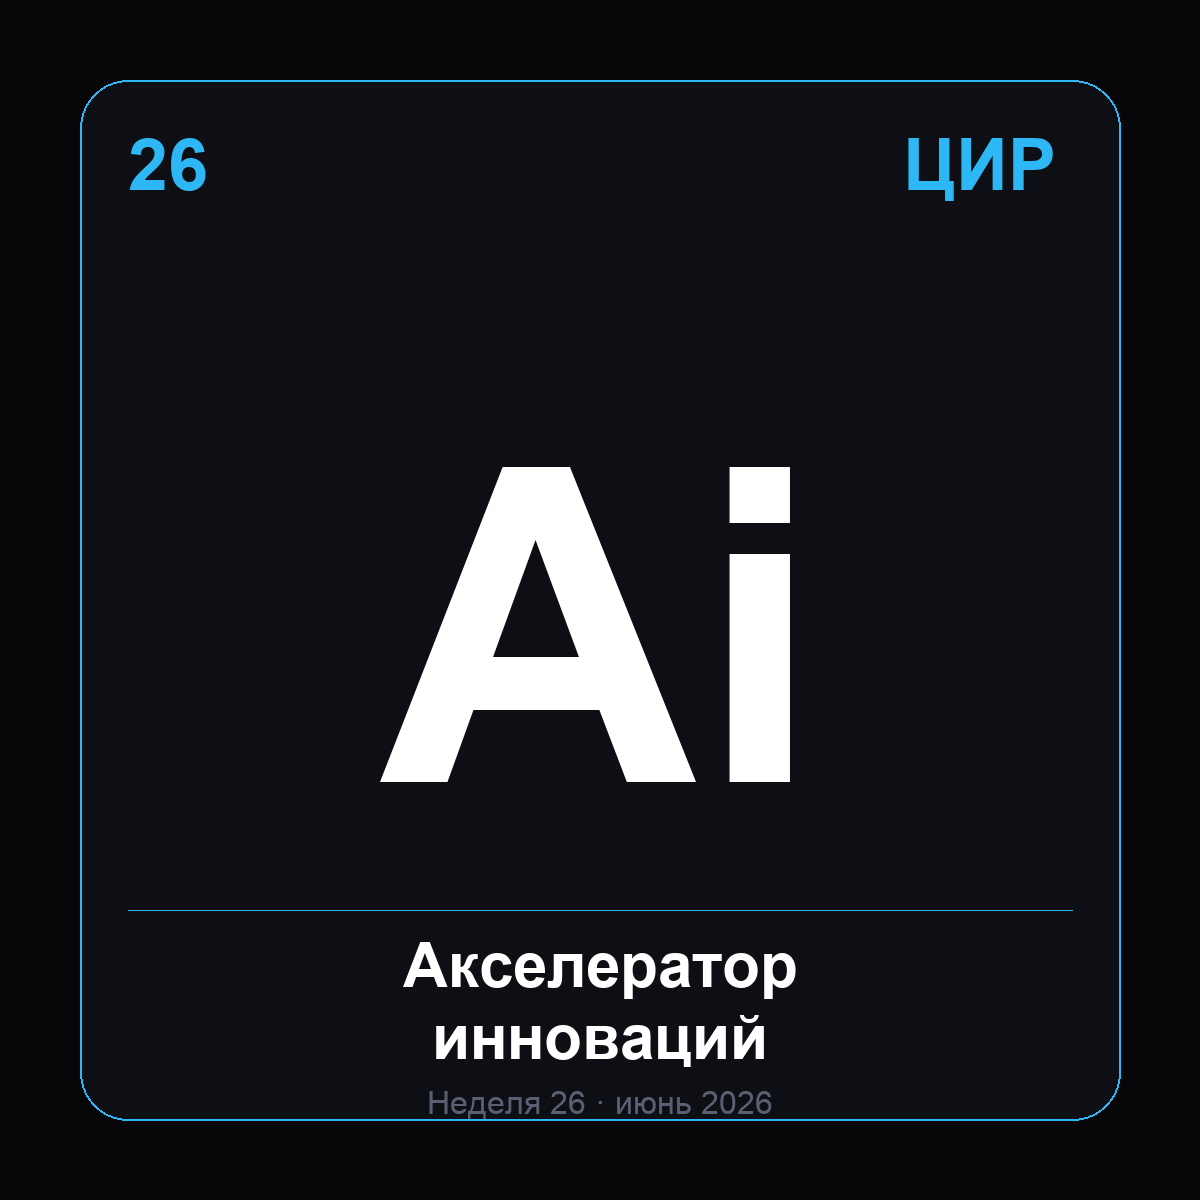
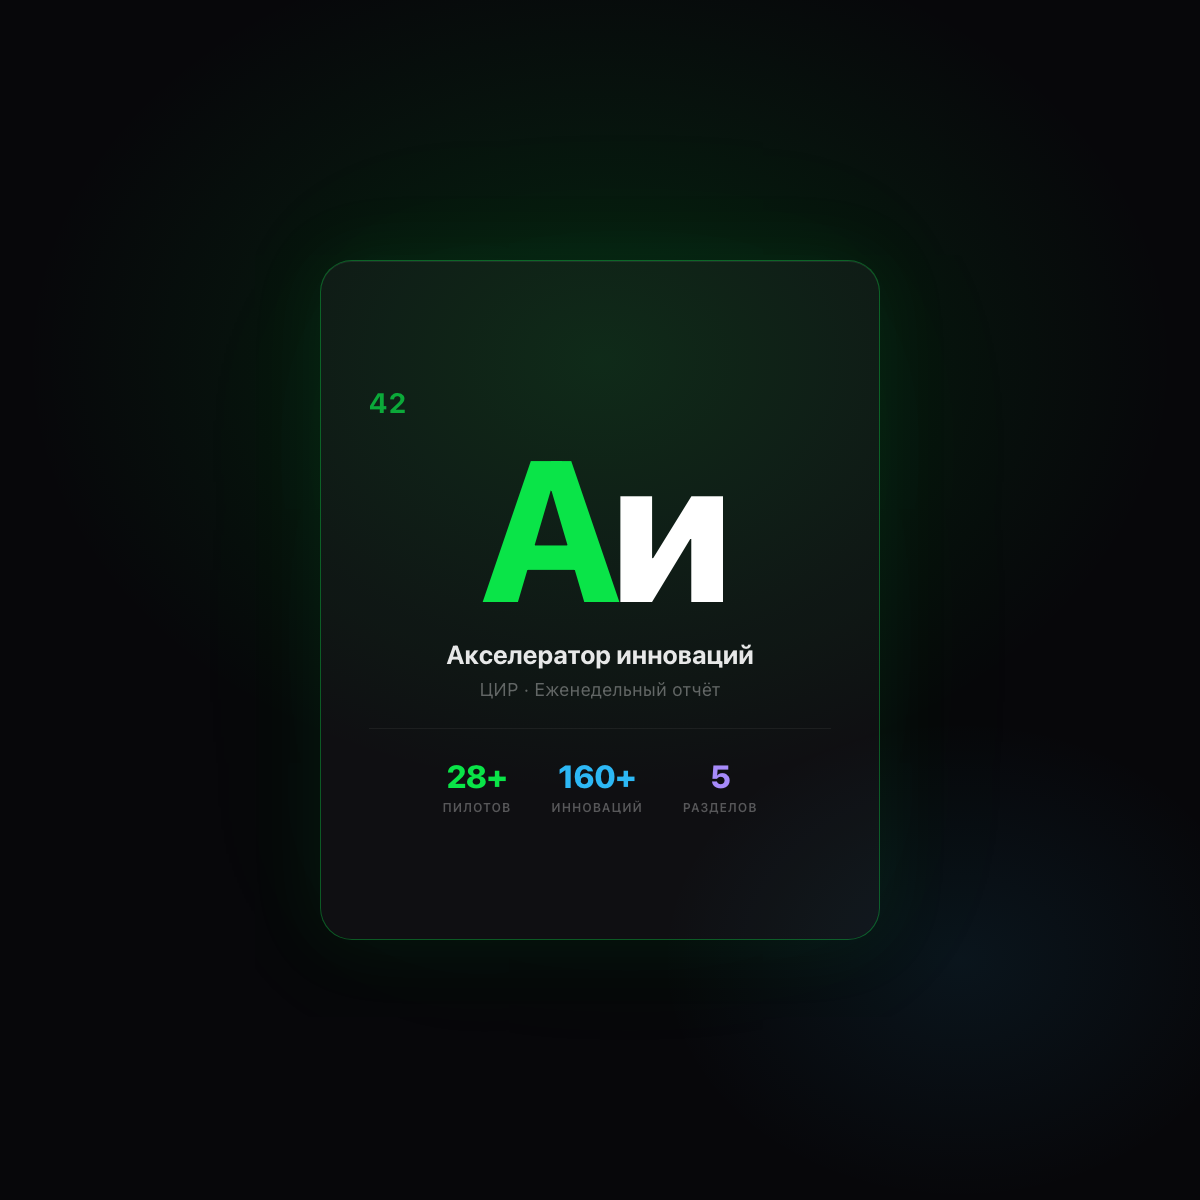
feat: add timeless og.png in periodic table style, restore og:image meta tags

diff --git a/index.html b/index.html
@@ -9,7 +9,11 @@
 <meta property="og:description" content="Еженедельный дашборд команды: пилотные проекты, поиск инноваций, инфраструктура и PR">
 <meta property="og:url" content="https://accelerator-weekly.vercel.app">
 <meta property="og:site_name" content="Акселератор инноваций ЦИР">
-<meta name="twitter:card" content="summary">
+<meta property="og:image" content="https://raw.githubusercontent.com/sharnenkov/accelerator-weekly/main/og.png">
+<meta property="og:image:width" content="1200">
+<meta property="og:image:height" content="1200">
+<meta name="twitter:card" content="summary_large_image">
+<meta name="twitter:image" content="https://raw.githubusercontent.com/sharnenkov/accelerator-weekly/main/og.png">
 <meta name="twitter:title" content="Акселератор инноваций · ЦИР">
 <meta name="twitter:description" content="Еженедельный дашборд команды: пилотные проекты, поиск инноваций, инфраструктура и PR">
 <style>